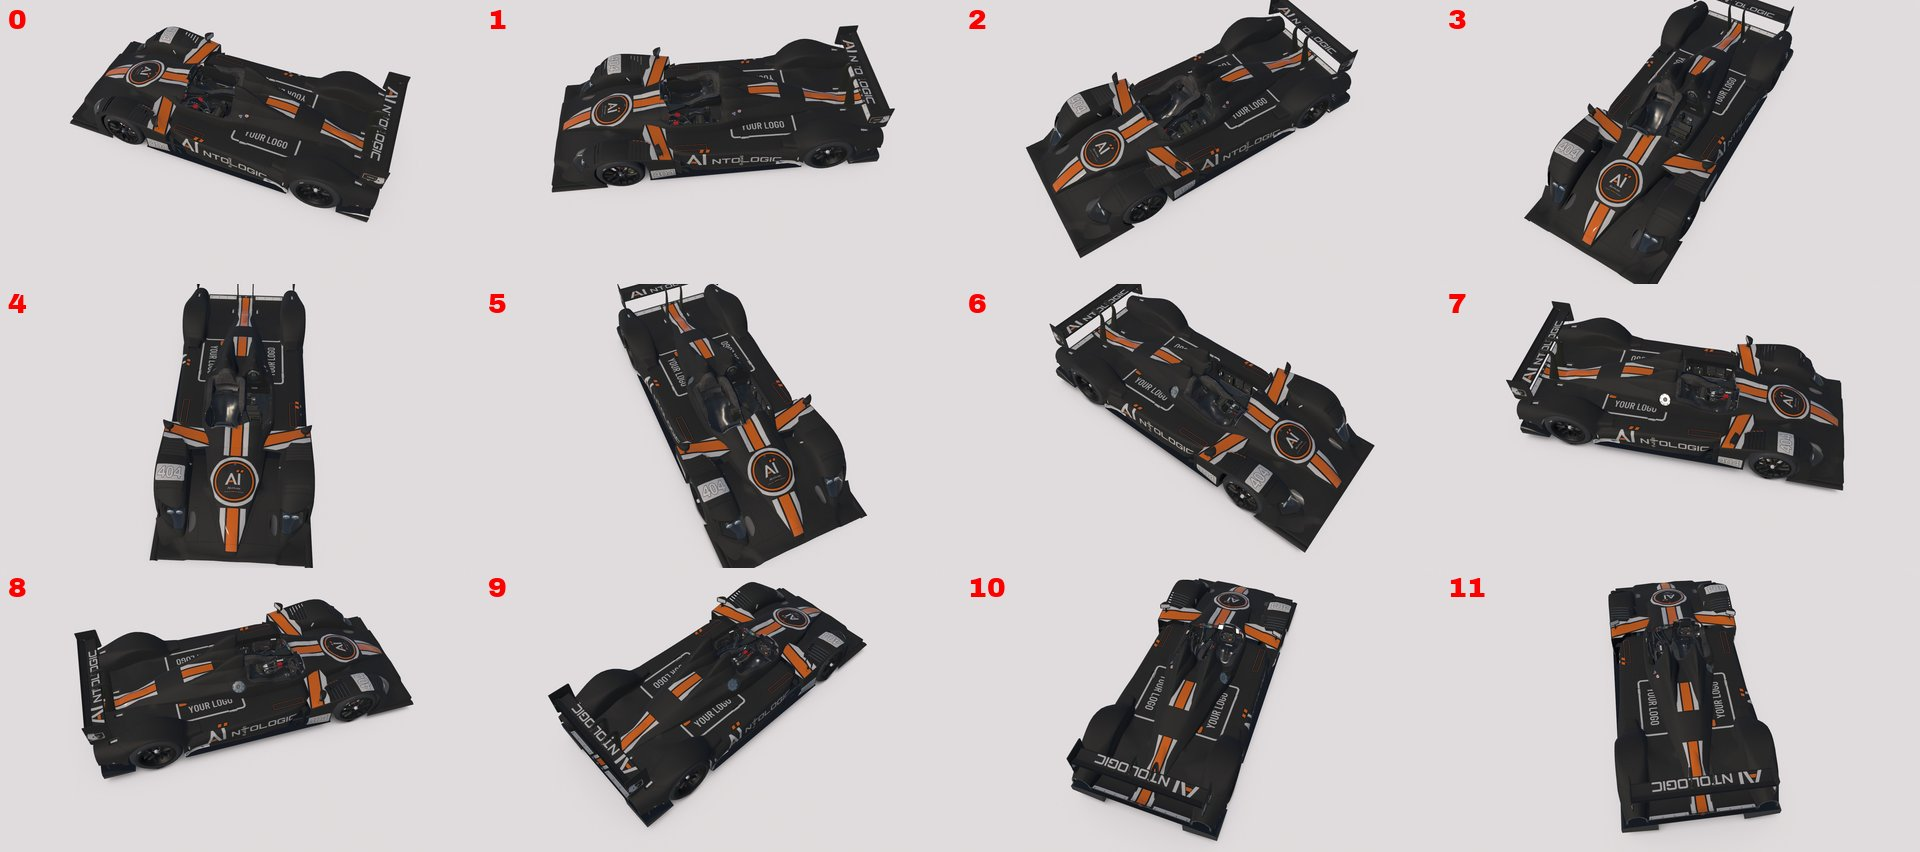
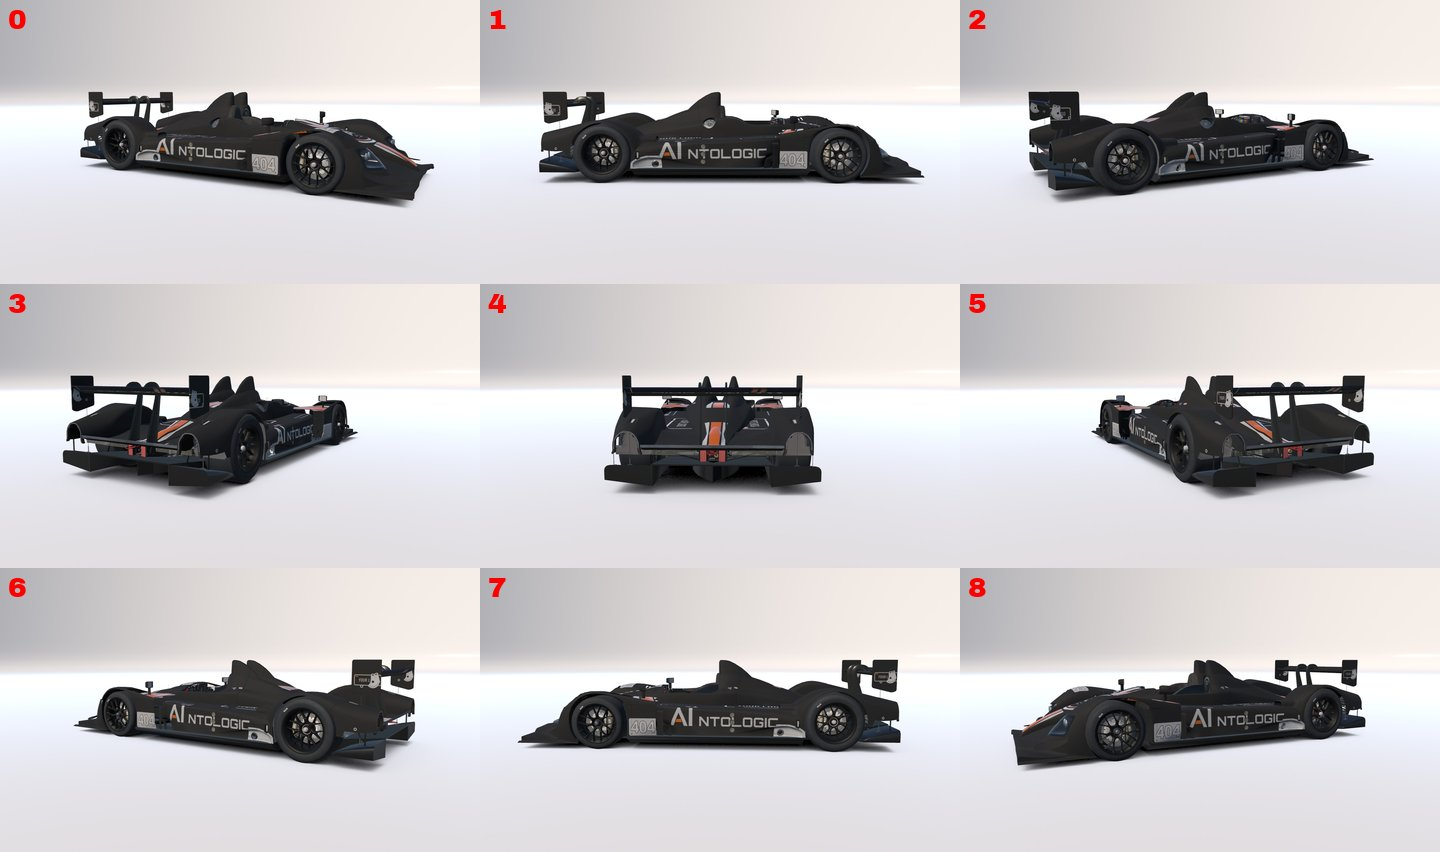
Gallery: add Lotus 79 and Skip Barber Formula 2000 previews

diff --git a/README.md b/README.md
@@ -54,8 +54,9 @@ strip, "YOUR LOGO" placeholders). ✅ = on-track verified. The full set is in
 
 ![Aston Martin](docs/gallery/aston-martin-vantage-gt3-evo.jpg)
 
-Porsche 911 RSR, Ferrari 296 Challenge, Ray FF1600 and HPD ARX-01c are in
-[`docs/gallery/`](docs/gallery/) too.
+Porsche 911 RSR, Ferrari 296 Challenge, Ray FF1600, HPD ARX-01c, Lotus 79 and
+Skip Barber Formula 2000 are in [`docs/gallery/`](docs/gallery/) too — all ten
+cars.
 
 ## Quick start (no coding)
 

diff --git a/docs/gallery/README.md b/docs/gallery/README.md
@@ -17,6 +17,7 @@ your own ID, name and logos.
 | Ferrari 296 Challenge | ![Ferrari](ferrari-296-challenge.jpg) |
 | Ray FF1600 | ![Ray](ray-ff1600.jpg) |
 | HPD ARX-01c | ![HPD](hpd-arx-01c.jpg) |
+| Lotus 79 | ![Lotus 79](lotus-79.jpg) |
+| Skip Barber Formula 2000 | ![Skip Barber](skip-barber-formula-2000.jpg) |
 
-The Lotus 79 and Skip Barber Formula 2000 previews are pending (their ready-made
-paints still ship in `paints/`).
+All ten cars are shown.
